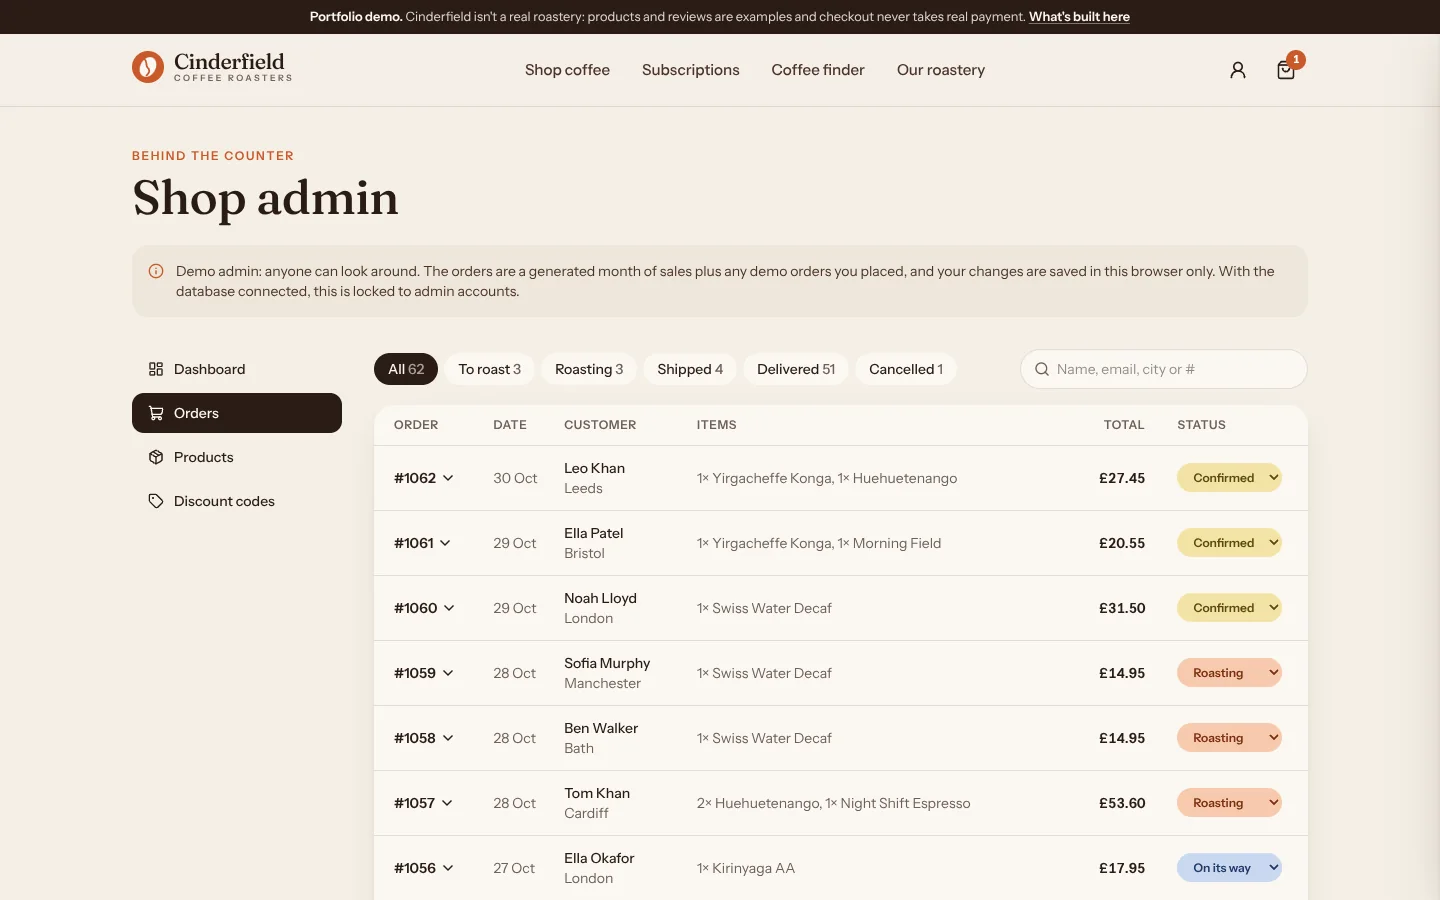
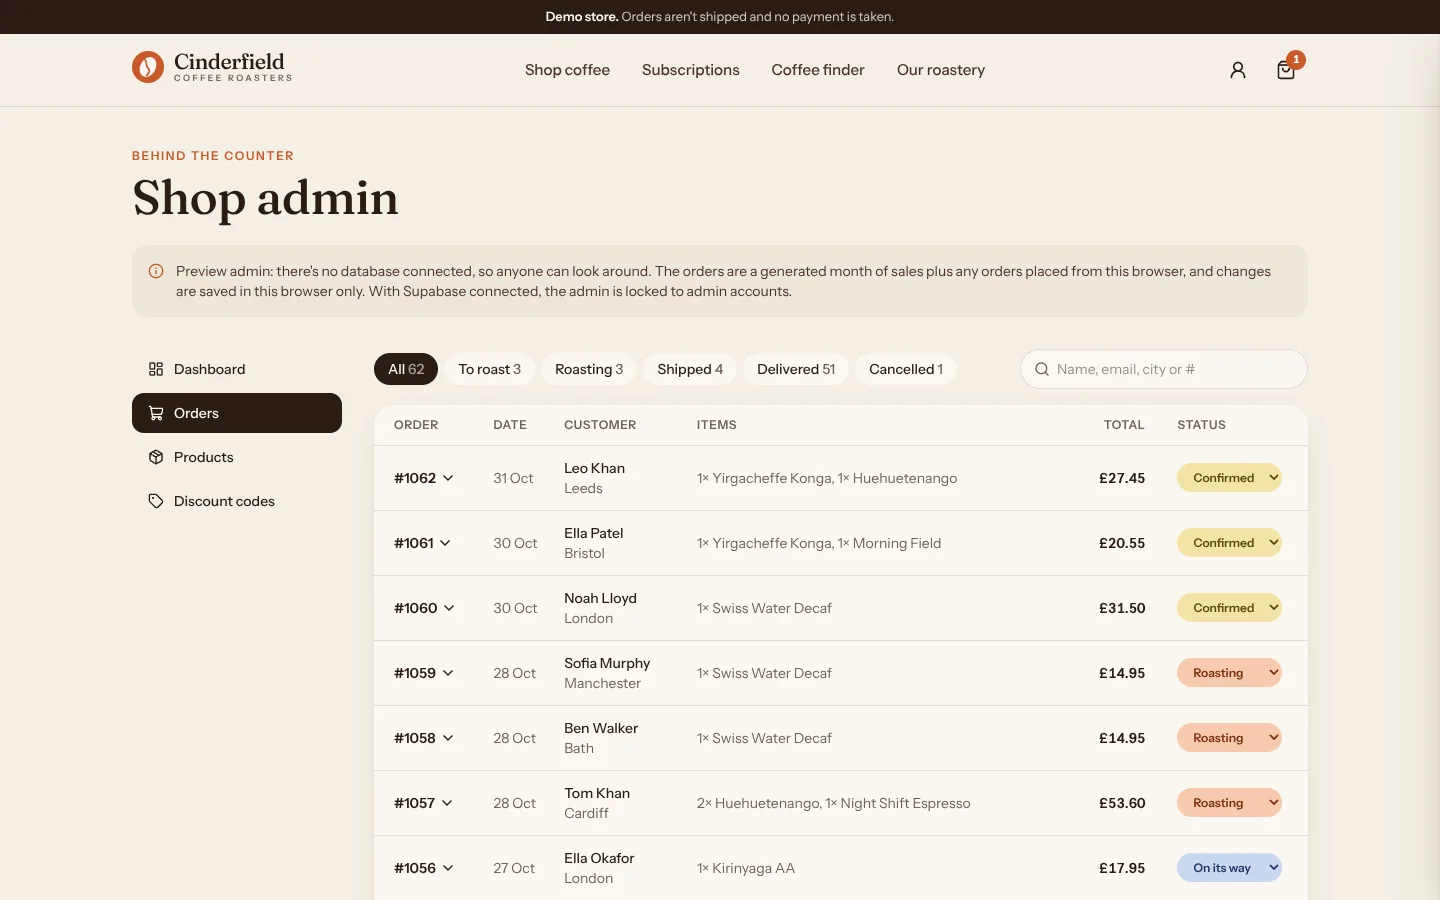
Update the README and screenshots for handing the shop over
Covers deploying on Vercel with the Supabase and Stripe integrations, the auth and webhook settings, making an admin, and a checklist for going live with a real roastery.

diff --git a/src/app/page.tsx b/src/app/page.tsx
@@ -41,7 +41,7 @@ export default async function Home() {
               Roasted on Tuesday. <em className="font-normal text-ember">In your cup</em> by Friday.
             </h1>
             <p className="mt-6 max-w-lg text-lg text-roast">
-              We roast in small batches every week and post the next day, so your coffee arrives at its sweetest. Single origins, a house blend you&apos;ll never tire of, and subscriptions you can pause anytime.
+              We roast in small batches every week and post the next day, so your coffee arrives at its sweetest. Single origins, a house blend you&apos;ll never tire of, and subscriptions you can change or cancel anytime.
             </p>
             <div className="mt-8 flex flex-wrap gap-3">
               <Link href="/shop" className={buttonClass("primary", "lg")}>

diff --git a/README.md b/README.md
@@ -1,12 +1,12 @@
 # Cinderfield Coffee Roasters
 
-A complete online shop for a small-batch coffee roaster: catalogue, bag, checkout, subscriptions, customer accounts and an admin for the owner. Built with Next.js, Supabase and Stripe.
+A complete online shop for a small-batch coffee roaster: catalogue, bag, checkout, subscriptions, customer accounts and an admin for the owner. Built with Next.js, Supabase and Stripe, and ready to hand over to a real roastery.
 
 ![The Cinderfield home page](docs/screenshots/home.webp)
 
-> **Cinderfield isn't a real business.** The coffees, prices, reviews and customers are made up. I built it as a portfolio project to show what a small business shop can look like when it's done properly, from the first click to the owner's dashboard. Checkout never takes real money: it runs without payment in demo mode and on Stripe's test mode in live mode.
+> Cinderfield is a sample brand: the coffees, prices and sample reviews are placeholders for the roaster's own. Until live Stripe keys are added, the site shows a one-line "demo store" notice with the Stripe test card, keeps itself out of search engines, and no real money changes hands.
 >
-> Alexandra Badea · [Pages by Alexa](https://pagesbyalexa.com)
+> Built by Alexandra Badea · [Pages by Alexa](https://pagesbyalexa.com)
 
 ## What's in it
 
@@ -19,7 +19,7 @@ A complete online shop for a small-batch coffee roaster: catalogue, bag, checkou
 - Subscriptions every 2 or 4 weeks at 10% off with free delivery, and a subscription builder that shows the price per delivery, per month and what it saves in a year.
 - A coffee finder quiz: four questions score every coffee in stock and explain why the match fits. Results have their own URL.
 - Brew guides with a coffee-to-water calculator and a "fix my coffee" section.
-- Accounts with order history.
+- Customer accounts: sign up, sign in, forgot/reset password, change name and password, order history, and subscriptions with their next delivery date. "Update card or cancel" opens Stripe's customer portal.
 
 **For the owner** (`/admin`)
 
@@ -32,7 +32,9 @@ A complete online shop for a small-batch coffee roaster: catalogue, bag, checkou
 
 - The server re-prices every order from the database. The browser sends what's in the bag, never what it costs.
 - Row Level Security on every table: customers can only read their own orders, and only admins can change products, orders and codes. The admin pages are locked by the database, not just hidden.
-- The Stripe webhook verifies the signature, marks the order paid, saves the delivery address and takes the bags out of stock. It's safe to receive twice.
+- Payments are confirmed twice over: the order page checks with Stripe, and the signed Stripe webhook does the same. Either can arrive first and repeats change nothing, so an order is never lost or counted twice.
+- Every subscription renewal Stripe charges becomes a new order to roast, with stock taken off.
+- The database sets itself up: each build applies any new migrations and loads the starting catalogue into an empty shop.
 - Pages are prerendered and the catalogue is cached, then refreshed the moment an admin saves a change.
 - Accessible: real buttons and form labels, visible focus, a skip link, keyboard-friendly quiz and drawer, and no animation for people who've turned motion off.
 - Tests for pricing and discounts, the coffee finder, and every database security rule (run against real Postgres in memory with PGlite).
@@ -57,58 +59,52 @@ Next.js 16 (App Router, Cache Components) · React 19 · TypeScript · Tailwind 
 
 You need Node 20 or newer.
 
-### Demo mode: no setup
+### On your machine
 
 ```bash
 npm install
 npm run dev
 ```
 
-Open http://localhost:3000. With no keys, the shop runs on the catalogue in `src/data`, orders and admin changes are kept in your browser's local storage, and checkout goes straight to a confirmation without payment. This is also how the public preview runs, so nobody can break it for anyone else.
+Open http://localhost:3000. With no keys, the shop runs on the catalogue in `src/data`, orders and admin changes are kept in your browser, and checkout takes no payment. Copy `.env.example` to `.env.local` and fill it in to connect Supabase and Stripe; `npm run db:migrate` then sets up the database.
 
-### Live mode: Supabase and Stripe (test mode)
+### Deploying on Vercel, with Supabase and Stripe
 
-1. **Create a Supabase project.** In the SQL editor, run `supabase/migrations/20261030120000_init.sql`, then `supabase/seed.sql` to add the coffees, sample reviews and discount codes.
-2. **Set up auth.** In Authentication → URL Configuration, set the Site URL to your site (e.g. `http://localhost:3000`) and add `http://localhost:3000/auth/callback` to the redirect URLs.
-3. **Get Stripe test keys** from the Stripe dashboard (Developers → API keys, with test mode on).
-4. **Copy the environment file** and fill it in:
-
-   ```bash
-   cp .env.example .env.local
-   ```
-
-5. **Forward Stripe webhooks** to your machine with the [Stripe CLI](https://docs.stripe.com/stripe-cli). It prints the webhook signing secret (`whsec_…`) for `STRIPE_WEBHOOK_SECRET`:
-
-   ```bash
-   stripe listen --forward-to localhost:3000/api/stripe/webhook
-   ```
-
-   When deployed, add an endpoint in the Stripe dashboard pointing to `https://your-site/api/stripe/webhook` with the events `checkout.session.completed`, `checkout.session.async_payment_succeeded` and `checkout.session.expired`.
-
-6. **Run it**, sign up on `/account`, and pay with the test card `4242 4242 4242 4242` (any future date, any CVC).
-7. **Make yourself an admin** in the SQL editor:
+1. **Import the repository** on [vercel.com/new](https://vercel.com/new). It deploys straight away, with no database and no payments.
+2. **Add Supabase** from the project's Storage tab (Create Database → Supabase). Vercel creates the database and adds its keys to the project. The next build creates the tables and the starting coffees. For a demo store, also add `SEED_SAMPLE_REVIEWS` = `true`.
+3. **Add Stripe** from the Vercel Marketplace (or paste your own test keys as `STRIPE_SECRET_KEY`). Checkout now goes through Stripe.
+4. **Tell Supabase where the site lives.** In Supabase → Authentication → URL Configuration, set the Site URL to the shop's address and add `https://your-shop.com/**` to the redirect URLs, so confirmation and password-reset links come back to the shop.
+5. **Add the Stripe webhook** (recommended): in Stripe → Developers → Webhooks, add `https://your-shop.com/api/stripe/webhook` with the events `checkout.session.completed`, `checkout.session.async_payment_succeeded`, `checkout.session.expired` and `invoice.paid`, then save its signing secret as `STRIPE_WEBHOOK_SECRET` in Vercel. Orders go through without it, but subscription renewals need it.
+6. **Turn on Stripe's customer portal** (Stripe → Settings → Billing → Customer portal → Save), so customers can update their card or cancel.
+7. **Redeploy**, create your account on the site, and make it an admin in Supabase's SQL editor:
 
    ```sql
    update public.profiles set role = 'admin'
    where id = (select id from auth.users where email = 'you@example.com');
    ```
 
-Live mode switches on when all of the Supabase and Stripe variables are set. With only Supabase set, accounts and reviews work but checkout stays in demo mode.
+To try a payment, use the card `4242 4242 4242 4242` with any future date and any CVC.
 
-### Deploying
+### Going live for a real shop
 
-Import the repository on Vercel and add the same environment variables. `NEXT_PUBLIC_SITE_URL` is optional there: the site address is picked up from Vercel. With no variables at all, it deploys in demo mode.
+- Replace the coffees in `src/data/products.ts` (then `npm run db:seed-file`), or edit them in the admin.
+- Don't set `SEED_SAMPLE_REVIEWS`, so the shop starts with real reviews only.
+- Set `SHOP_EMAIL` to the shop's address and check the privacy and terms pages against the business.
+- Switch on Stripe's emails for successful payments (Stripe → Settings → Customer emails), so customers get a receipt.
+- Give Supabase your own email sender (Authentication → Emails → SMTP), since its built-in one is only meant for testing.
+- Add the live Stripe keys and a live webhook. The demo-store notice and the noindex tag go away on their own.
 
 ## Scripts
 
 | Command | What it does |
 |---|---|
 | `npm run dev` | Start the development server |
-| `npm run build` / `npm start` | Production build and server |
+| `npm run build` / `npm start` | Production build (sets up the database first, if one is connected) and server |
+| `npm run db:migrate` | Apply new migrations and load the starting catalogue |
 | `npm test` | Run the tests (pricing, coffee finder, database security rules) |
 | `npm run lint` | ESLint |
 | `npm run typecheck` | TypeScript, without building |
-| `npm run db:seed-file` | Rebuild `supabase/seed.sql` from the catalogue in `src/data` |
+| `npm run db:seed-file` | Rebuild `supabase/seed.sql` (and the sample reviews) from `src/data` |
 
 ## Where things are
 
@@ -117,16 +113,19 @@ src/
   app/                  pages and routes
     admin/              the owner's dashboard, orders, products and codes (+ server actions)
     api/checkout/       prices the bag on the server and starts Stripe Checkout
-    api/stripe/webhook/ confirms payment and takes stock
+    api/stripe/webhook/ confirms payments and records subscription renewals
+    account/            sign in, details, subscriptions and orders
   components/           UI, including the cart, quiz and admin tables
   data/                 the demo catalogue, reviews and discount codes
   lib/
     pricing.ts          every price, discount and delivery rule, in one place
     checkout.ts         checks a bag against the catalogue and stock
     catalog.ts          reads products and reviews (cached), from Supabase or src/data
+    fulfil.ts           marks orders paid and turns renewals into orders
     finder.ts           the coffee finder's scoring
     browser-store.ts    local storage for the bag and demo data, without effects
   proxy.ts              keeps the Supabase session fresh
+scripts/migrate.mjs     sets up and updates the database on every build
 supabase/
   migrations/           tables, security rules and the stock function
   tests/                tests for every security rule, on an in-memory Postgres
@@ -136,14 +135,13 @@ supabase/
 
 - **Prices are in pence**, as integers, everywhere. No floating-point pennies.
 - **One pricing module** (`src/lib/pricing.ts`) is used by the bag, the checkout API and the admin, so the number a customer sees is the number they're charged.
-- **Demo mode is a first-class mode**, not a mock: the same components and pricing run in both. It means the shop can be shown publicly without accounts, keys or a database bill.
+- **It runs with or without its services.** With no keys, the same components and pricing run on built-in data, so the shop can be previewed anywhere; Supabase and Stripe switch on as their keys appear.
 - **The bags are drawn in code** (SVG) instead of photographed. It keeps the demo light and lets a new coffee get its own bag with a few colours.
 
 ## Not built yet
 
-- Emails (order confirmations, roast reminders). They'd go through a service like Resend, from the same webhook.
-- Renewal orders for subscriptions: Stripe bills each renewal, but the shop doesn't yet turn Stripe's `invoice.paid` event into a new order to roast.
-- A page for customers to skip or change a subscription. Stripe's customer portal would cover most of it.
+- Order confirmation and shipping emails from the shop itself (Stripe's receipts cover payment confirmation). They'd go through a service like Resend, from the same webhook.
+- Gift subscriptions.
 
 ## Licence
 
